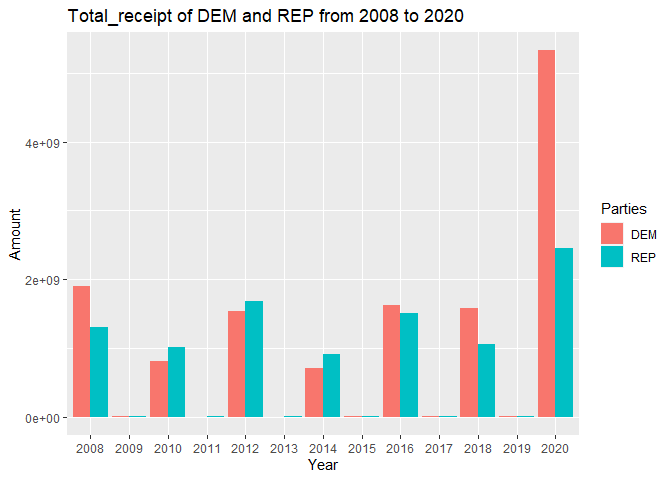
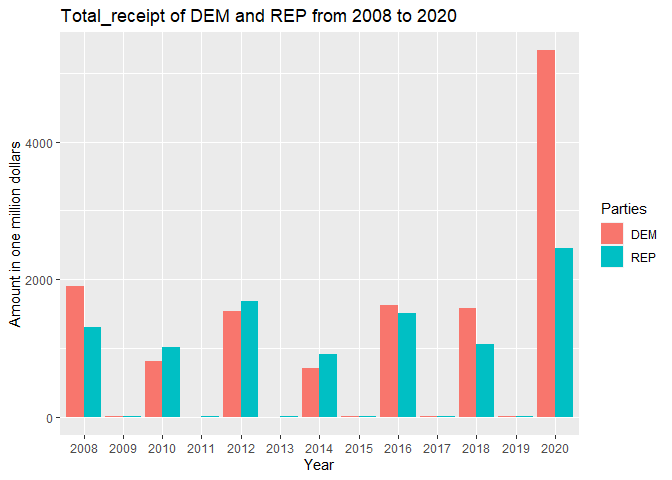
add to existing files

diff --git a/hw2_HH_updated.md b/hw2_HH_updated.md
@@ -298,11 +298,13 @@ df_part2 = na.omit(df_part2)
 # Sum amounts by year
 df_part2 <- aggregate(select(df_part2, "Total_Receipt"), by= list(df_part2$Coverage_End_Date, df_part2$Cand_Party_Affiliation), sum)
 
+df_part2$Total_Receipt = df_part2$Total_Receipt/1000000
+
 # Plot
 ggplot(df_part2, aes(factor(Group.1), Total_Receipt, fill = Group.2)) + 
   geom_bar(stat="identity", position = "dodge") + 
   ggtitle("Total_receipt of DEM and REP from 2008 to 2020") +
-  xlab("Year") + ylab("Amount") + 
+  xlab("Year") + ylab("Amount in one million dollars") + 
   guides(fill=guide_legend(title="Parties"))
 ```
 
